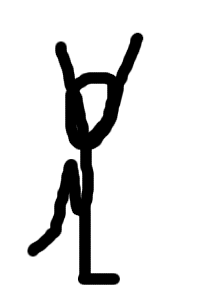
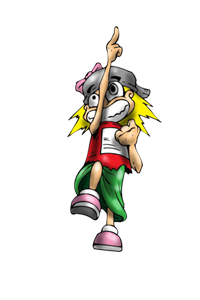
Nuevos gráficos para el personaje principal.

Changed region(s): [[0.12, 0.09, 0.81, 0.96]]

diff --git a/lib/player.py b/lib/player.py
@@ -5,7 +5,7 @@ DELAY_TO_RETURN = 0.4
 
 class Player:
 
-    def __init__(self):
+    def __init__(self, x=60, y=170):
         self._load_images()
         self.set_state(5)
         self.x = 60
@@ -41,8 +41,9 @@ class Player:
     def draw(self):
         self.image.blit(self.x, self.y)
 
+
     def update(self, dt):
-        self.step += dt
+        self.step += 0.01
 
         if self.step > DELAY_TO_RETURN:
             self.set_state(5)
